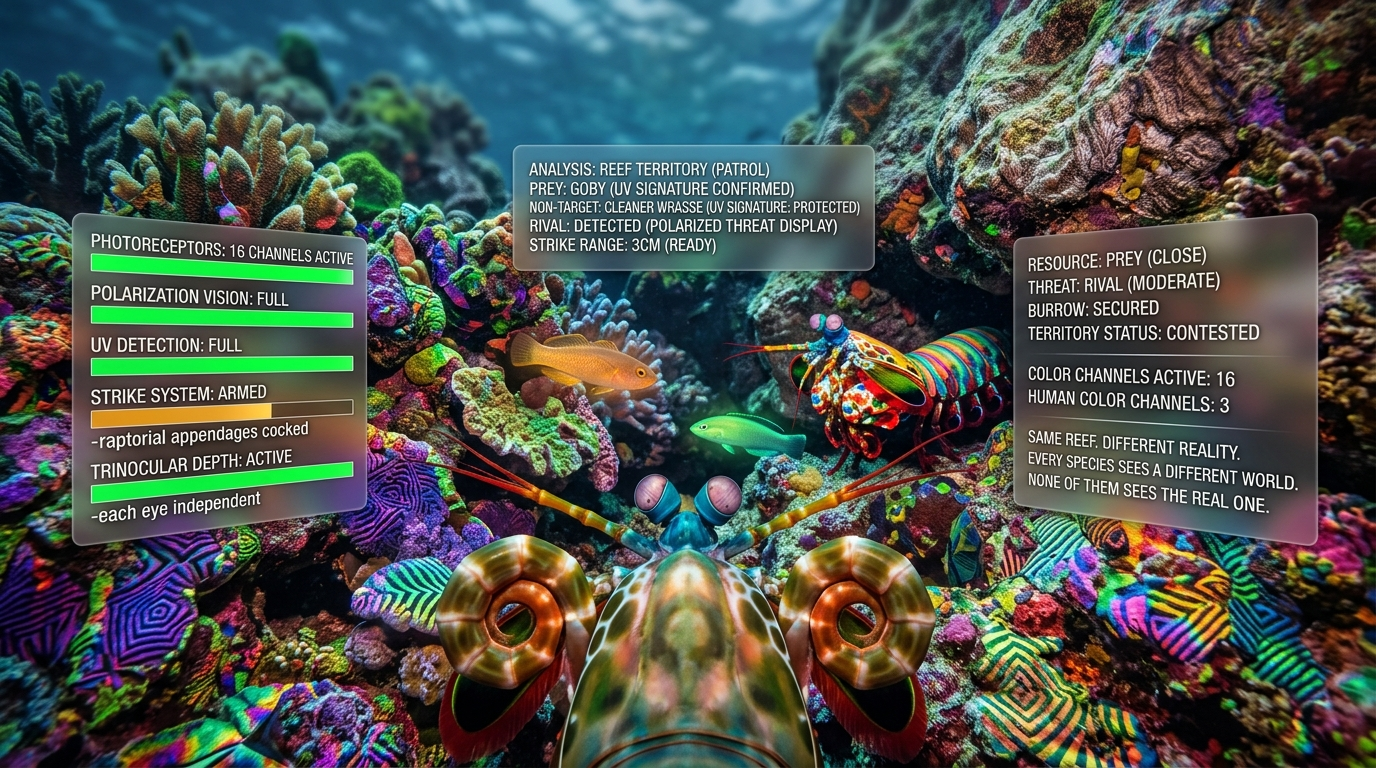
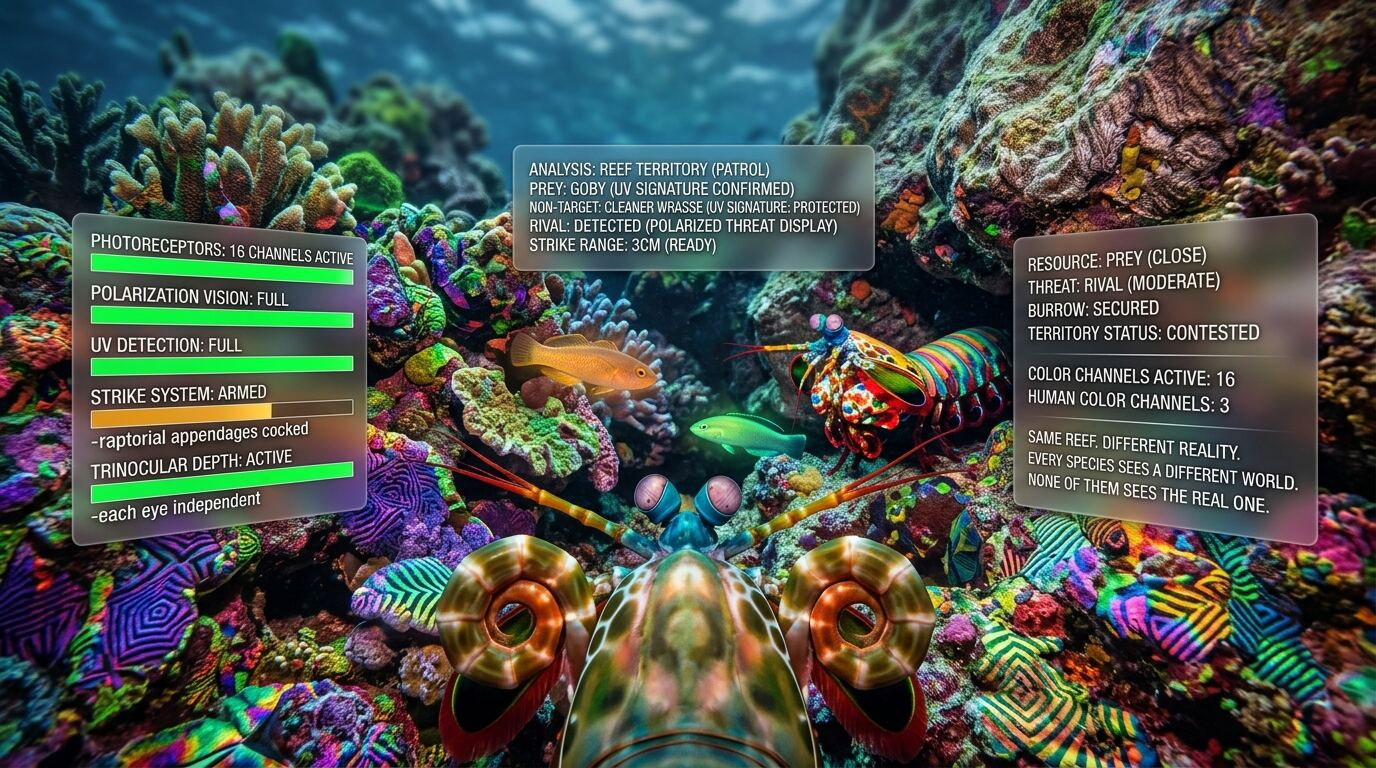
Optimize landing page images

diff --git a/index.html b/index.html
@@ -225,8 +225,13 @@
       line-height: 0;
     }
 
+    .truth-image picture {
+      display: block;
+    }
+
     .truth-image img {
       width: 100%;
+      height: auto;
       display: block;
       filter: brightness(0.92) saturate(0.85);
     }
@@ -451,7 +456,10 @@
       </div>
       <div class="truth-image">
         <div class="img-wrapper">
-          <img src="01-mantis-shrimp.jpg" alt="Mantis shrimp" loading="lazy">
+          <picture>
+            <source srcset="01-mantis-shrimp.webp" type="image/webp">
+            <img src="01-mantis-shrimp.jpg" alt="Mantis shrimp" loading="lazy" decoding="async" width="1376" height="768">
+          </picture>
         </div>
         <div class="subtext">A mantis shrimp sees 16 color channels. You see 3. Same reef.</div>
       </div>
@@ -467,7 +475,10 @@
       </div>
       <div class="truth-image">
         <div class="img-wrapper">
-          <img src="02-the-mother.jpg" alt="The mother" loading="lazy">
+          <picture>
+            <source srcset="02-the-mother.webp" type="image/webp">
+            <img src="02-the-mother.jpg" alt="The mother" loading="lazy" decoding="async" width="1376" height="768">
+          </picture>
         </div>
         <div class="subtext">3am. Sleep deficit: 14 hours. Every other gauge: green.</div>
       </div>
@@ -482,7 +493,10 @@
       </div>
       <div class="truth-image">
         <div class="img-wrapper">
-          <img src="03-panic-attack.jpg" alt="Panic attack" loading="lazy">
+          <picture>
+            <source srcset="03-panic-attack.webp" type="image/webp">
+            <img src="03-panic-attack.jpg" alt="Panic attack" loading="lazy" decoding="async" width="1376" height="768">
+          </picture>
         </div>
         <div class="subtext">A panic attack. Heart rate 142. Every reading is a measurement, not a malfunction.</div>
       </div>
@@ -497,7 +511,10 @@
       </div>
       <div class="truth-image">
         <div class="img-wrapper">
-          <img src="04-waking-up-camp.jpg" alt="Waking up at camp" loading="lazy">
+          <picture>
+            <source srcset="04-waking-up-camp.webp" type="image/webp">
+            <img src="04-waking-up-camp.jpg" alt="Waking up at camp" loading="lazy" decoding="async" width="1376" height="768">
+          </picture>
         </div>
         <div class="subtext">Dawn, 100,000 years ago. 24 people. Every gauge green. This world is gone.</div>
       </div>
@@ -512,7 +529,10 @@
       </div>
       <div class="truth-image">
         <div class="img-wrapper">
-          <img src="05-sunday-evening.jpg" alt="Sunday evening" loading="lazy">
+          <picture>
+            <source srcset="05-sunday-evening.webp" type="image/webp">
+            <img src="05-sunday-evening.jpg" alt="Sunday evening" loading="lazy" decoding="async" width="1376" height="768">
+          </picture>
         </div>
         <div class="subtext">Sunday evening. Nice apartment. Physical needs met. Every social gauge: flatlined.</div>
       </div>
@@ -528,7 +548,10 @@
       </div>
       <div class="truth-image">
         <div class="img-wrapper">
-          <img src="06-the-reach.jpg" alt="The reach" loading="lazy">
+          <picture>
+            <source srcset="06-the-reach.webp" type="image/webp">
+            <img src="06-the-reach.jpg" alt="The reach" loading="lazy" decoding="async" width="1376" height="768">
+          </picture>
         </div>
         <div class="subtext">1am. The hand reaches for what's there. Not for what it wants.</div>
       </div>
@@ -544,7 +567,10 @@
       </div>
       <div class="truth-image">
         <div class="img-wrapper">
-          <img src="07-supermarket.jpg" alt="Supermarket" loading="lazy">
+          <picture>
+            <source srcset="07-supermarket.webp" type="image/webp">
+            <img src="07-supermarket.jpg" alt="Supermarket" loading="lazy" decoding="async" width="1376" height="768">
+          </picture>
         </div>
         <div class="subtext">~4,200 products. ~12 address a real need. The rest sell the feeling.</div>
       </div>
@@ -560,7 +586,10 @@
       </div>
       <div class="truth-image">
         <div class="img-wrapper">
-          <img src="08-ai-friend.jpg" alt="AI friend" loading="lazy">
+          <picture>
+            <source srcset="08-ai-friend.webp" type="image/webp">
+            <img src="08-ai-friend.jpg" alt="AI friend" loading="lazy" decoding="async" width="1376" height="768">
+          </picture>
         </div>
         <div class="subtext">All bonding gauges green. The other side feels nothing.</div>
       </div>
@@ -575,7 +604,10 @@
       </div>
       <div class="truth-image">
         <div class="img-wrapper">
-          <img src="09-therapy-office.jpg" alt="Therapy office" loading="lazy">
+          <picture>
+            <source srcset="09-therapy-office.webp" type="image/webp">
+            <img src="09-therapy-office.jpg" alt="Therapy office" loading="lazy" decoding="async" width="1376" height="768">
+          </picture>
         </div>
         <div class="subtext">50 minutes of understanding. Then back to the environment that produced this.</div>
       </div>
@@ -591,7 +623,10 @@
       </div>
       <div class="truth-image">
         <div class="img-wrapper">
-          <img src="10-tuesday-night.jpg" alt="Tuesday night" loading="lazy">
+          <picture>
+            <source srcset="10-tuesday-night.webp" type="image/webp">
+            <img src="10-tuesday-night.jpg" alt="Tuesday night" loading="lazy" decoding="async" width="1376" height="768">
+          </picture>
         </div>
         <div class="subtext">Tuesday night. Nothing special. Every gauge green. No app built this.</div>
       </div>
